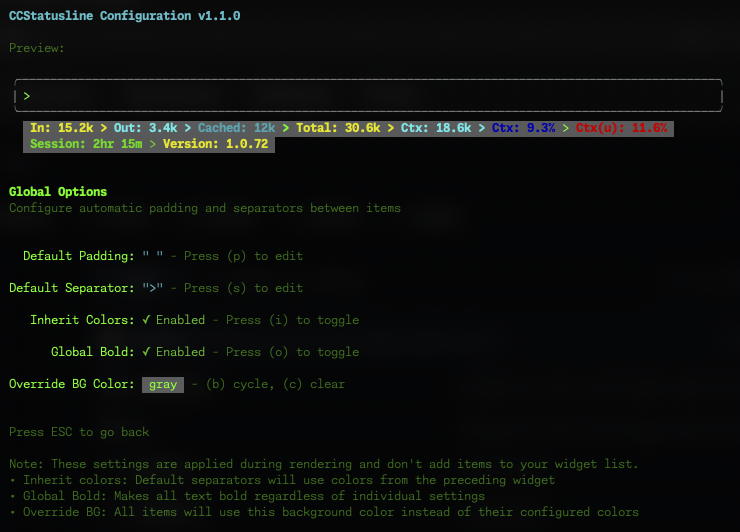
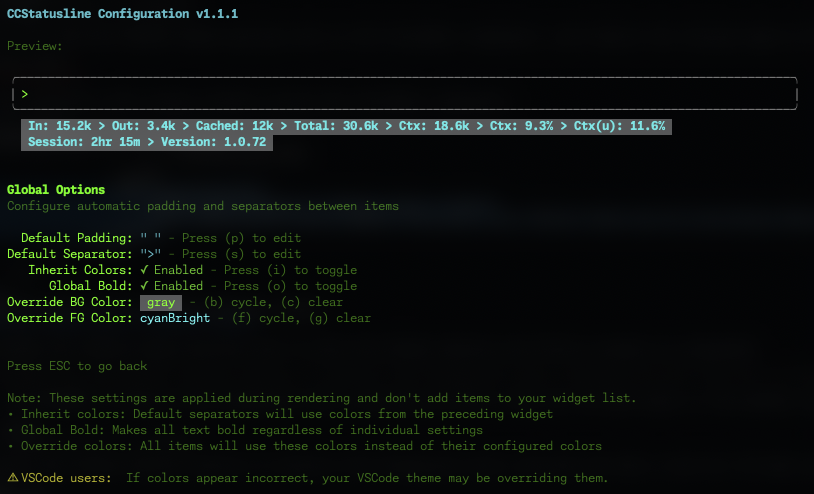
Added global option to override foreground color, added VSCode warning for color issues

diff --git a/src/tui.tsx b/src/tui.tsx
@@ -96,13 +96,22 @@ const applyColors = (text: string, foregroundColor?: string, backgroundColor?: s
 };
 
 const renderSingleLine = (items: StatusItem[], terminalWidth: number, widthDetectionAvailable: boolean, settings?: Settings): string => {
-    // Helper to apply colors with optional background override
+    // Helper to apply colors with optional background and foreground override
     const applyItemColors = (text: string, item: StatusItem, defaultColor?: string): string => {
-        const bgColor = settings?.overrideBackgroundColor && settings.overrideBackgroundColor !== 'none' 
-            ? settings.overrideBackgroundColor 
-            : item.backgroundColor;
+        // Override foreground color takes precedence over EVERYTHING
+        let fgColor = item.color || defaultColor;
+        if (settings?.overrideForegroundColor && settings.overrideForegroundColor !== 'none') {
+            fgColor = settings.overrideForegroundColor;
+        }
+        
+        // Override background color takes precedence over EVERYTHING
+        let bgColor = item.backgroundColor;
+        if (settings?.overrideBackgroundColor && settings.overrideBackgroundColor !== 'none') {
+            bgColor = settings.overrideBackgroundColor;
+        }
+        
         const shouldBold = settings?.globalBold || item.bold;
-        return applyColors(text, item.color || defaultColor, bgColor, shouldBold);
+        return applyColors(text, fgColor, bgColor, shouldBold);
     };
     // Calculate effective width based on flex mode settings
     let effectiveWidth: number | null = null;
@@ -228,18 +237,26 @@ const renderSingleLine = (items: StatusItem[], terminalWidth: number, widthDetec
             if (settings?.inheritSeparatorColors && index > 0) {
                 const prevElem = rawElements[index - 1];
                 if (prevElem && prevElem.item) {
-                    // Apply the previous element's colors to the separator (with override)
+                    // Apply the previous element's colors to the separator (with overrides)
+                    const fgColor = settings?.overrideForegroundColor && settings.overrideForegroundColor !== 'none'
+                        ? settings.overrideForegroundColor
+                        : prevElem.item.color;
                     const bgColor = settings?.overrideBackgroundColor && settings.overrideBackgroundColor !== 'none'
                         ? settings.overrideBackgroundColor
                         : prevElem.item.backgroundColor;
-                    const coloredSep = applyColors(defaultSep, prevElem.item.color, bgColor, prevElem.item.bold);
+                    const shouldBold = settings?.globalBold || prevElem.item.bold;
+                    const coloredSep = applyColors(defaultSep, fgColor, bgColor, shouldBold);
                     elements.push(coloredSep);
                 } else {
                     elements.push(defaultSep);
                 }
-            } else if (settings?.overrideBackgroundColor && settings.overrideBackgroundColor !== 'none') {
-                // Apply override background even when not inheriting colors
-                const coloredSep = applyColors(defaultSep, undefined, settings.overrideBackgroundColor);
+            } else if (settings?.overrideBackgroundColor && settings.overrideBackgroundColor !== 'none' || 
+                       settings?.overrideForegroundColor && settings.overrideForegroundColor !== 'none') {
+                // Apply override colors even when not inheriting colors
+                const fgColor = settings?.overrideForegroundColor && settings.overrideForegroundColor !== 'none'
+                    ? settings.overrideForegroundColor
+                    : undefined;
+                const coloredSep = applyColors(defaultSep, fgColor, settings.overrideBackgroundColor, settings?.globalBold);
                 elements.push(coloredSep);
             } else {
                 elements.push(defaultSep);
@@ -250,19 +267,22 @@ const renderSingleLine = (items: StatusItem[], terminalWidth: number, widthDetec
         if (elem.type === 'separator' || elem.type === 'flex-separator') {
             elements.push(elem.content);
         } else {
-            // Apply padding with the same background color as the item (or override)
+            // Apply padding with the same colors as the item (or overrides)
+            const fgColor = settings?.overrideForegroundColor && settings.overrideForegroundColor !== 'none'
+                ? settings.overrideForegroundColor
+                : undefined;
             const bgColor = settings?.overrideBackgroundColor && settings.overrideBackgroundColor !== 'none'
                 ? settings.overrideBackgroundColor
                 : elem.item?.backgroundColor;
             
-            if (padding && bgColor) {
-                // Apply background color to padding
-                const paddedContent = applyColors(padding, undefined, bgColor) + 
+            if (padding && (bgColor || fgColor)) {
+                // Apply colors to padding
+                const paddedContent = applyColors(padding, fgColor, bgColor, settings?.globalBold) + 
                                      elem.content + 
-                                     applyColors(padding, undefined, bgColor);
+                                     applyColors(padding, fgColor, bgColor, settings?.globalBold);
                 elements.push(paddedContent);
             } else {
-                // No background color or no padding
+                // No colors or no padding
                 elements.push(padding + elem.content + padding);
             }
         }
@@ -1219,6 +1239,10 @@ const ColorMenu: React.FC<ColorMenuProps> = ({ items, onUpdate, onBack }) => {
                     initialIndex={0}
                 />
             </Box>
+            <Box marginTop={1}>
+                <Text color='yellow'>⚠ VSCode users: </Text>
+                <Text dimColor>If colors appear incorrect, your VSCode theme may be overriding them.</Text>
+            </Box>
         </Box>
     );
 };
@@ -1393,6 +1417,12 @@ const GlobalOptionsMenu: React.FC<GlobalOptionsMenuProps> = ({ settings, onUpdat
         'bgCyan', 'bgWhite', 'bgGray', 'bgRedBright', 'bgGreenBright', 'bgYellowBright', 
         'bgBlueBright', 'bgMagentaBright', 'bgCyanBright', 'bgWhiteBright'];
     const currentBgIndex = bgColors.indexOf(settings.overrideBackgroundColor || 'none');
+    
+    // Foreground color override
+    const fgColors = ['none', 'black', 'red', 'green', 'yellow', 'blue', 'magenta', 'cyan', 'white',
+        'gray', 'redBright', 'greenBright', 'yellowBright', 'blueBright',
+        'magentaBright', 'cyanBright', 'whiteBright'];
+    const currentFgIndex = fgColors.indexOf(settings.overrideForegroundColor || 'none');
 
     useInput((input, key) => {
         if (editingPadding) {
@@ -1467,6 +1497,22 @@ const GlobalOptionsMenu: React.FC<GlobalOptionsMenuProps> = ({ settings, onUpdat
                     globalBold: newGlobalBold
                 };
                 onUpdate(updatedSettings);
+            } else if (input === 'f' || input === 'F') {
+                // Cycle through foreground colors
+                const nextIndex = (currentFgIndex + 1) % fgColors.length;
+                const nextFgColor = fgColors[nextIndex];
+                const updatedSettings = {
+                    ...settings,
+                    overrideForegroundColor: nextFgColor === 'none' ? undefined : nextFgColor
+                };
+                onUpdate(updatedSettings);
+            } else if (input === 'g' || input === 'G') {
+                // Clear override foreground color
+                const updatedSettings = {
+                    ...settings,
+                    overrideForegroundColor: undefined
+                };
+                onUpdate(updatedSettings);
             }
         }
     });
@@ -1495,31 +1541,31 @@ const GlobalOptionsMenu: React.FC<GlobalOptionsMenuProps> = ({ settings, onUpdat
                 </Box>
             ) : (
                 <>
-                    <Box marginTop={1}>
+                    <Box>
                         <Text>  Default Padding: </Text>
                         <Text color="cyan">{settings.defaultPadding ? `"${settings.defaultPadding}"` : '(none)'}</Text>
                         <Text dimColor> - Press (p) to edit</Text>
                     </Box>
                     
-                    <Box marginTop={1}>
+                    <Box>
                         <Text>Default Separator: </Text>
                         <Text color="cyan">{settings.defaultSeparator ? `"${settings.defaultSeparator}"` : '(none)'}</Text>
                         <Text dimColor> - Press (s) to edit</Text>
                     </Box>
                     
-                    <Box marginTop={1}>
+                    <Box>
                         <Text>   Inherit Colors: </Text>
                         <Text color={inheritColors ? "green" : "red"}>{inheritColors ? '✓ Enabled' : '✗ Disabled'}</Text>
                         <Text dimColor> - Press (i) to toggle</Text>
                     </Box>
                     
-                    <Box marginTop={1}>
+                    <Box>
                         <Text>      Global Bold: </Text>
                         <Text color={globalBold ? "green" : "red"}>{globalBold ? '✓ Enabled' : '✗ Disabled'}</Text>
                         <Text dimColor> - Press (o) to toggle</Text>
                     </Box>
                     
-                    <Box marginTop={1}>
+                    <Box>
                         <Text>Override BG Color: </Text>
                         {(() => {
                             const bgColor = settings.overrideBackgroundColor || 'none';
@@ -1533,6 +1579,21 @@ const GlobalOptionsMenu: React.FC<GlobalOptionsMenuProps> = ({ settings, onUpdat
                             }
                         })()}
                         <Text dimColor> - (b) cycle, (c) clear</Text>
+                    </Box>
+                    
+                    <Box>
+                        <Text>Override FG Color: </Text>
+                        {(() => {
+                            const fgColor = settings.overrideForegroundColor || 'none';
+                            if (fgColor === 'none') {
+                                return <Text color="gray">(none)</Text>;
+                            } else {
+                                const fgFunc = (chalk as any)[fgColor];
+                                const display = fgFunc ? fgFunc(fgColor) : fgColor;
+                                return <Text>{display}</Text>;
+                            }
+                        })()}
+                        <Text dimColor> - (f) cycle, (g) clear</Text>
                     </Box>
                     
                     <Box marginTop={2}>
@@ -1550,8 +1611,12 @@ const GlobalOptionsMenu: React.FC<GlobalOptionsMenuProps> = ({ settings, onUpdat
                             • Global Bold: Makes all text bold regardless of individual settings
                         </Text>
                         <Text dimColor wrap='wrap'>
-                            • Override BG: All items will use this background color instead of their configured colors
+                            • Override colors: All items will use these colors instead of their configured colors
                         </Text>
+                        <Box marginTop={1}>
+                            <Text color='yellow'>⚠ VSCode users: </Text>
+                            <Text dimColor>If colors appear incorrect, your VSCode theme may be overriding them.</Text>
+                        </Box>
                     </Box>
                 </>
             )}
@@ -1735,7 +1800,8 @@ const App: React.FC = () => {
                         onBack={() => {
                             // Save that we came from 'lines' menu (index 0)
                             // Clear the line selection so it resets next time we enter
-                            setMenuSelections({ ...menuSelections, main: 0, lines: undefined });
+                            const { lines: _, ...restMenuSelections } = menuSelections;
+                            setMenuSelections({ ...restMenuSelections, main: 0 });
                             setScreen('main');
                         }}
                         initialSelection={menuSelections.lines || 0}

diff --git a/src/ccstatusline.ts b/src/ccstatusline.ts
@@ -16,6 +16,7 @@ chalk.level = 3;
 function applyColors(text: string, foregroundColor?: string, backgroundColor?: string, bold?: boolean): string {
     let result = text;
     
+    // Standard color application
     // Ignore 'dim' color - it causes issues with terminal rendering
     if (foregroundColor && foregroundColor !== 'dim') {
         const fgFunc = (chalk as any)[foregroundColor];
@@ -335,11 +336,20 @@ async function getTokenMetrics(transcriptPath: string): Promise<{
 function renderSingleLine(items: StatusItem[], settings: any, data: StatusJSON, tokenMetrics: any, sessionDuration: string | null): string {
     // Helper to apply colors with optional background and bold override  
     const applyColorsWithOverride = (text: string, foregroundColor?: string, backgroundColor?: string, bold?: boolean): string => {
-        const bgColor = settings.overrideBackgroundColor && settings.overrideBackgroundColor !== 'none' 
-            ? settings.overrideBackgroundColor 
-            : backgroundColor;
+        // Override foreground color takes precedence over EVERYTHING, including passed foreground color
+        let fgColor = foregroundColor;
+        if (settings.overrideForegroundColor && settings.overrideForegroundColor !== 'none') {
+            fgColor = settings.overrideForegroundColor;
+        }
+        
+        // Override background color takes precedence over EVERYTHING, including passed background color
+        let bgColor = backgroundColor;
+        if (settings.overrideBackgroundColor && settings.overrideBackgroundColor !== 'none') {
+            bgColor = settings.overrideBackgroundColor;
+        }
+        
         const shouldBold = settings.globalBold || bold;
-        return applyColors(text, foregroundColor, bgColor, shouldBold);
+        return applyColors(text, fgColor, bgColor, shouldBold);
     };
     const detectedWidth = getTerminalWidth();
     // Calculate terminal width based on flex mode settings
@@ -384,7 +394,9 @@ function renderSingleLine(items: StatusItem[], settings: any, data: StatusJSON, 
             case 'model':
                 if (data.model) {
                     const text = item.rawValue ? data.model.display_name : `Model: ${data.model.display_name}`;
-                    elements.push({ content: applyColorsWithOverride(text, item.color || settings.colors.model, item.backgroundColor, item.bold), type: 'model', item });
+                    // Use item.color first, then fall back to settings.colors.model
+                    const defaultColor = item.color || settings.colors.model;
+                    elements.push({ content: applyColorsWithOverride(text, defaultColor, item.backgroundColor, item.bold), type: 'model', item });
                 }
                 break;
 
@@ -602,8 +614,9 @@ function renderSingleLine(items: StatusItem[], settings: any, data: StatusJSON, 
                 } else {
                     finalElements.push(defaultSep);
                 }
-            } else if (settings.overrideBackgroundColor && settings.overrideBackgroundColor !== 'none') {
-                // Apply override background even when not inheriting colors
+            } else if ((settings.overrideBackgroundColor && settings.overrideBackgroundColor !== 'none') ||
+                       (settings.overrideForegroundColor && settings.overrideForegroundColor !== 'none')) {
+                // Apply override colors even when not inheriting colors
                 const coloredSep = applyColorsWithOverride(defaultSep, undefined, undefined);
                 finalElements.push(coloredSep);
             } else {
@@ -615,19 +628,18 @@ function renderSingleLine(items: StatusItem[], settings: any, data: StatusJSON, 
         if (elem.type === 'separator' || elem.type === 'flex-separator') {
             finalElements.push(elem.content);
         } else {
-            // Apply padding with the same background color as the item (or override)
-            const bgColor = settings.overrideBackgroundColor && settings.overrideBackgroundColor !== 'none'
-                ? settings.overrideBackgroundColor
-                : elem.item?.backgroundColor;
+            // Apply padding with colors (using overrides if set)
+            const hasColorOverride = (settings.overrideBackgroundColor && settings.overrideBackgroundColor !== 'none') ||
+                                    (settings.overrideForegroundColor && settings.overrideForegroundColor !== 'none');
             
-            if (padding && bgColor) {
-                // Apply background color to padding
-                const paddedContent = applyColorsWithOverride(padding, undefined, bgColor) + 
+            if (padding && (elem.item?.backgroundColor || hasColorOverride)) {
+                // Apply colors to padding - applyColorsWithOverride will handle the overrides
+                const paddedContent = applyColorsWithOverride(padding, undefined, elem.item?.backgroundColor) + 
                                      elem.content + 
-                                     applyColorsWithOverride(padding, undefined, bgColor);
+                                     applyColorsWithOverride(padding, undefined, elem.item?.backgroundColor);
                 finalElements.push(paddedContent);
             } else {
-                // No background color or no padding
+                // No colors or no padding
                 finalElements.push(padding + elem.content + padding);
             }
         }
@@ -643,11 +655,11 @@ function renderSingleLine(items: StatusItem[], settings: any, data: StatusJSON, 
         
         for (let i = 0; i < finalElements.length; i++) {
             const elem = finalElements[i];
-            if (elem === 'FLEX' || (elements[i] && elements[i].type === 'flex-separator')) {
+            if (elem === 'FLEX' || (elements[i] && elements[i]?.type === 'flex-separator')) {
                 currentPart++;
                 parts[currentPart] = [];
             } else {
-                parts[currentPart]!.push(elem);
+                parts[currentPart]?.push(elem!);
             }
         }
 
@@ -770,7 +782,7 @@ async function renderStatusLine(data: StatusJSON) {
     // Render each line
     for (let i = 0; i < lines.length; i++) {
         const lineItems = lines[i];
-        if (lineItems.length > 0) {
+        if (lineItems && lineItems.length > 0) {
             const line = renderSingleLine(lineItems, settings, data, tokenMetrics, sessionDuration);
             // Add zero-width non-joiner at start of second+ lines to prevent trimming
             const outputLine = i > 0 ? '\u200C' + line : line;

diff --git a/src/config.ts b/src/config.ts
@@ -42,6 +42,7 @@ export interface Settings {
     defaultPadding?: string; // Default padding to add around all items
     inheritSeparatorColors?: boolean; // Whether default separators inherit colors from preceding widget
     overrideBackgroundColor?: string; // Override background color for all items (e.g., 'none', 'bgRed', etc.)
+    overrideForegroundColor?: string; // Override foreground color for all items (e.g., 'red', 'cyan', etc.)
     globalBold?: boolean; // Apply bold formatting to all items
 }
 

diff --git a/README.md b/README.md
@@ -120,11 +120,16 @@ Configure global formatting preferences that apply to all status items:
   - Press **(i)** to toggle
 - **Global Bold** - Apply bold formatting to all text regardless of individual item settings
   - Press **(o)** to toggle
+- **Override Foreground Color** - Force all items to use the same text color
+  - Press **(f)** to cycle through colors
+  - Press **(v)** to clear override
 - **Override Background Color** - Force all items to use the same background color
   - Press **(b)** to cycle through colors
   - Press **(c)** to clear override
 
 > 💡 **Note:** These settings are applied during rendering and don't add items to your widget list. They provide a consistent look across your entire status line without modifying individual item configurations.
+
+> ⚠ **VSCode Users:** If colors appear incorrect in the VSCode integrated terminal, your VSCode theme may be overriding the ANSI color codes. This is a known limitation of VSCode's terminal rendering. The status line will display correctly in standalone terminals.
 
 ### 🔤 Raw Value Mode
 
